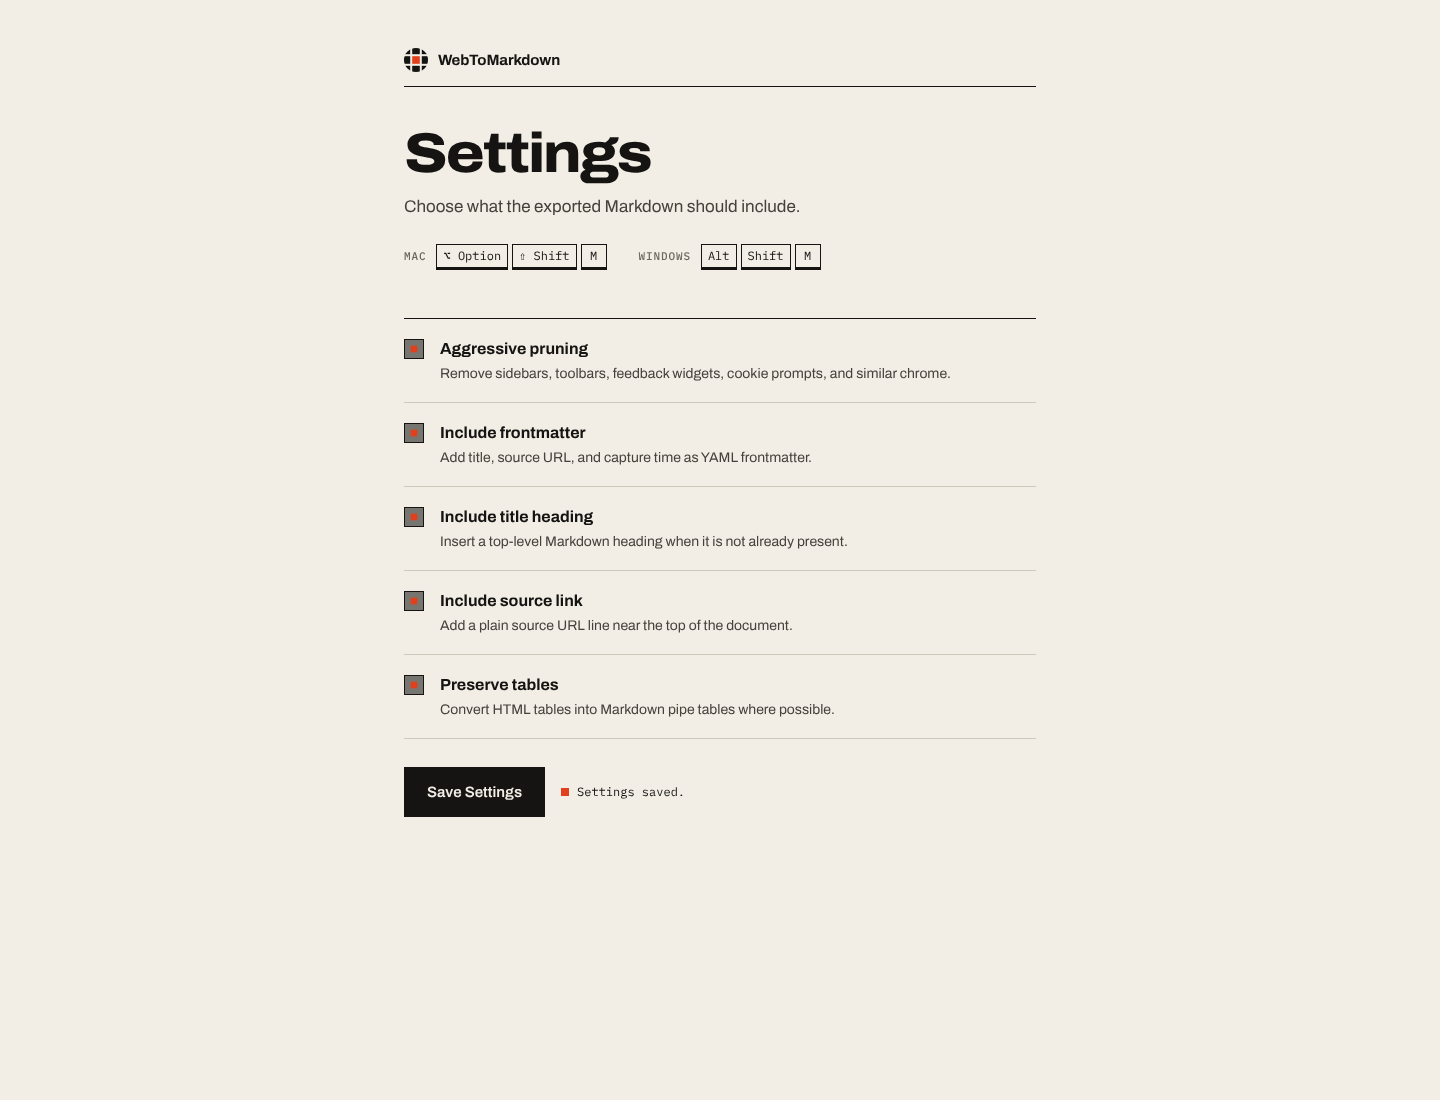
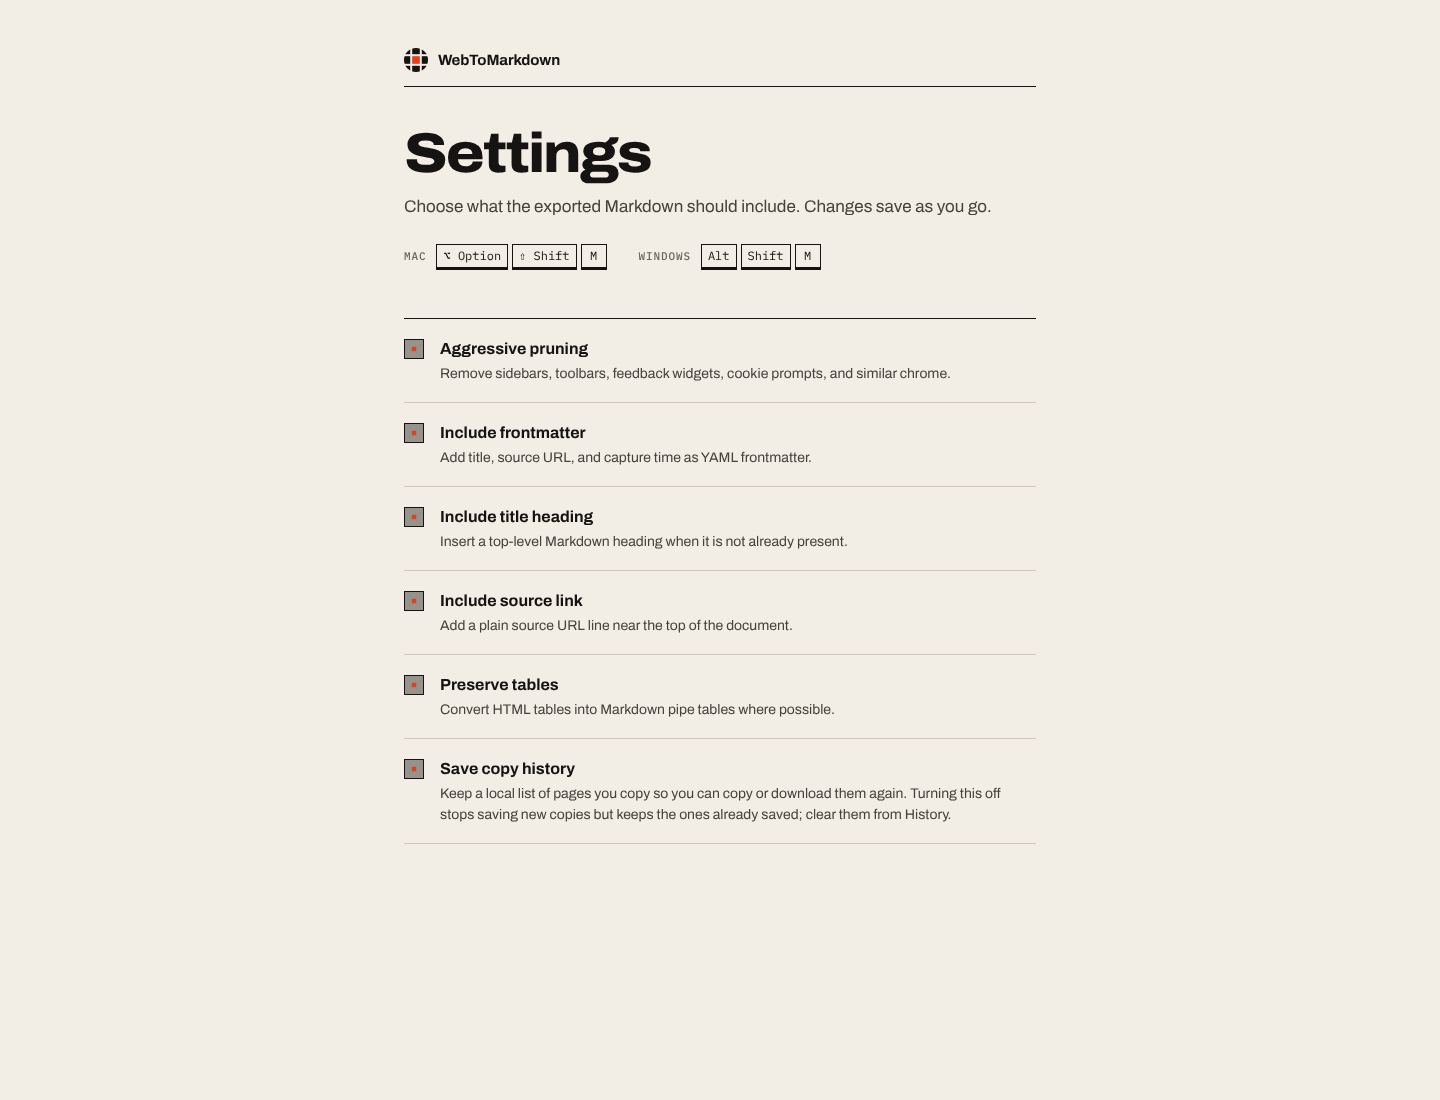
Regenerate Chrome Web Store screenshots for 1.2.0
Recapture the extension UI and rebuild the five 1280x800 browser-store
slides so they show the 1.2.0 popup:

- 01 copy-or-download: popup after a copy with Copy Current Page and
  Download .md side by side and the Settings, History, Rate, Share row.
- 02 keep-structure: unchanged (the capture shows no popup UI).
- 03 page-menu: caption names both page menu items, Copy page as
  Markdown and Download page as Markdown. Native menus cannot be
  captured, so the slide keeps the in-page toast.
- 04 copy-history (new): the popup History view with three saved copies.
  Replaces the old privacy slide and says history stays on the device.
- 05 tune-output: the settings page with all six settings, no Save
  button, and "Six switches" copy that mentions copy history.

The capture script now seeds answered review/share prompts so no card
covers the popup, seeds copyHistory for the History view, captures the
popup at its real 360px width, and no longer clicks the removed Save
Settings button.

Claude-Session: https://claude.ai/code/session_01PL12pTzd1LQaYWeYpRrsJu

diff --git a/store-screenshots-studio/src/data/browser-store-slide-set.tsx b/store-screenshots-studio/src/data/browser-store-slide-set.tsx
@@ -1,7 +1,7 @@
 import { browserStoreTargets } from "@/data/store-targets";
 import { BrowserContextMenuSlide } from "@/slides/browser/browser-context-menu-slide";
 import { BrowserHeroSlide } from "@/slides/browser/browser-hero-slide";
-import { BrowserLocalSlide } from "@/slides/browser/browser-local-slide";
+import { BrowserHistorySlide } from "@/slides/browser/browser-history-slide";
 import { BrowserSettingsSlide } from "@/slides/browser/browser-settings-slide";
 import { BrowserStructureSlide } from "@/slides/browser/browser-structure-slide";
 import type { SlideSetDefinition } from "@/types/slide-definition";
@@ -15,9 +15,9 @@ export const browserStoreSlideSet: SlideSetDefinition = {
   storeTargets: browserStoreTargets,
   slides: [
     {
-      slug: "copy-pages-fast",
+      slug: "copy-or-download",
       name: "Hero",
-      headline: "Web page in. Markdown out.",
+      headline: "Copy it or download it.",
       Component: BrowserHeroSlide,
     },
     {
@@ -27,22 +27,22 @@ export const browserStoreSlideSet: SlideSetDefinition = {
       Component: BrowserStructureSlide,
     },
     {
-      slug: "copy-from-page-menu",
+      slug: "page-menu",
       name: "Context Menu",
-      headline: "Three ways to copy.",
+      headline: "Right-click. Copy or save.",
       Component: BrowserContextMenuSlide,
+    },
+    {
+      slug: "copy-history",
+      name: "History",
+      headline: "Every copy, kept on your device.",
+      Component: BrowserHistorySlide,
     },
     {
       slug: "tune-output",
       name: "Settings",
       headline: "Choose what gets copied.",
       Component: BrowserSettingsSlide,
-    },
-    {
-      slug: "local-no-cloud",
-      name: "Trust",
-      headline: "Nothing leaves your browser.",
-      Component: BrowserLocalSlide,
     },
   ],
 };

diff --git a/store-screenshots-studio/src/slides/browser/browser-hero-slide.tsx b/store-screenshots-studio/src/slides/browser/browser-hero-slide.tsx
@@ -12,13 +12,13 @@ export function BrowserHeroSlide({
     <SlideShell className={className} label="Browser extension" tone="ink">
       <div style={{ left: 156, position: "absolute", top: 300, width: 1080 }}>
         <MarketingHeading
-          body="One click copies the readable part of the page as clean Markdown for notes, prompts, or your own archive."
-          eyebrow="01 — Copy any page"
+          body="One click turns the readable part of any page into clean Markdown. Copy it to your clipboard or save it as a .md file."
+          eyebrow="01 — Copy or download"
           headline={
             <>
-              Web page in.
+              Copy it or
               <br />
-              Markdown out.
+              download it.
             </>
           }
           tone="ink"
@@ -33,9 +33,9 @@ export function BrowserHeroSlide({
         />
       </div>
       <ScreenshotCard
-        alt="WebToMarkdown popup after a successful copy"
+        alt="WebToMarkdown popup after a successful copy, with Copy and Download buttons"
         src={sourceAssets.popupSuccess}
-        style={{ left: 2240, position: "absolute", top: 820, width: 520 }}
+        style={{ left: 2164, position: "absolute", top: 560, width: 600 }}
         tone="paper"
       />
     </SlideShell>

diff --git a/store-screenshots-studio/src/slides/browser/browser-history-slide.tsx b/store-screenshots-studio/src/slides/browser/browser-history-slide.tsx
@@ -1,0 +1,34 @@
+import { MarketingHeading } from "@/components/marketing-heading";
+import { ScreenshotCard } from "@/components/screenshot-card";
+import { SlideShell } from "@/components/slide-shell";
+import { sourceAssets } from "@/data/source-assets";
+import type { SlideComponentProps } from "@/types/slide-definition";
+
+export function BrowserHistorySlide({
+  className = "",
+}: SlideComponentProps) {
+  return (
+    <SlideShell className={className} label="Copy history" tone="ink">
+      <div style={{ left: 156, position: "absolute", top: 300, width: 1400 }}>
+        <MarketingHeading
+          body="Copy a page again, download it as .md, or go back to the site. History stays in your browser. No account, no upload, no server."
+          eyebrow="04 — Copy history"
+          headline={
+            <>
+              Every copy,
+              <br />
+              kept on your device.
+            </>
+          }
+          tone="ink"
+        />
+      </div>
+      <ScreenshotCard
+        alt="WebToMarkdown popup History view with three saved copies"
+        src={sourceAssets.popupHistory}
+        style={{ left: 1964, position: "absolute", top: 252, width: 760 }}
+        tone="ink"
+      />
+    </SlideShell>
+  );
+}

diff --git a/store-screenshots-studio/src/slides/browser/browser-context-menu-slide.tsx b/store-screenshots-studio/src/slides/browser/browser-context-menu-slide.tsx
@@ -11,13 +11,13 @@ export function BrowserContextMenuSlide({
     <SlideShell className={className} label="Fast access" tone="deep">
       <div style={{ left: 156, position: "absolute", top: 300, width: 1000 }}>
         <MarketingHeading
-          body="Right-click the page, use the toolbar popup, or press ⌥⇧M. A small toast confirms what was copied."
-          eyebrow="03 — Three ways in"
+          body="Right-click any page and pick “Copy page as Markdown” or “Download page as Markdown”. A small toast confirms it. ⌥⇧M copies too."
+          eyebrow="03 — Page menu"
           headline={
             <>
-              Three ways
+              Right-click.
               <br />
-              to copy.
+              Copy or save.
             </>
           }
           tone="deep"

diff --git a/store-screenshots-studio/src/slides/browser/browser-settings-slide.tsx b/store-screenshots-studio/src/slides/browser/browser-settings-slide.tsx
@@ -11,8 +11,8 @@ export function BrowserSettingsSlide({
     <SlideShell className={className} label="Copy options" tone="paper">
       <div style={{ left: 156, position: "absolute", top: 300, width: 1000 }}>
         <MarketingHeading
-          body="Frontmatter, title heading, source link, tables, and pruning. Five switches, all on by default."
-          eyebrow="04 — Settings"
+          body="Frontmatter, title heading, source link, tables, pruning, and copy history. Six switches, all on by default, saved as you change them."
+          eyebrow="05 — Settings"
           headline={
             <>
               Choose what

diff --git a/store-screenshots-studio/src/data/source-assets.ts b/store-screenshots-studio/src/data/source-assets.ts
@@ -2,6 +2,7 @@ export const sourceAssets = {
   icon: "/source/icon/app-icon.png",
   popupSuccess: "/source/popup/popup-success.png",
   popupBlocked: "/source/popup/popup-blocked.png",
+  popupHistory: "/source/popup/popup-history.png",
   browserContextMenu: "/source/browser/context-menu-toast.png",
   optionsUpdated: "/source/options/options-updated.png",
 } as const;
